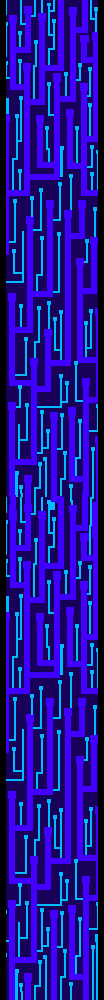
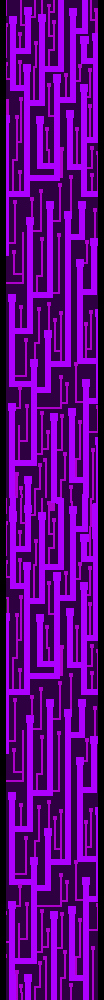
ATUALIZAÇÕES

diff --git a/script.js b/script.js
@@ -16,7 +16,7 @@ document.addEventListener('DOMContentLoaded', function (){
     });
     botaoSoftware.addEventListener('click', function() {
         document.body.style.backgroundColor = 'rgba(32, 16, 126, 1)';
-        document.body.style.backgroundImage = 'url("side-bar-roxa.png"), url("side-bar-roxa.png")';
+        document.body.style.backgroundImage = 'url("side-bar-azul.png"), url("side-bar-azul.png")';
         document.querySelectorAll('.botao').forEach(el => el.style.color = 'white');
         document.querySelectorAll('.botao').forEach(el => el.style.backgroundColor = 'rgba(0, 10, 70, 1)');
         limpador();
@@ -42,13 +42,13 @@ document.addEventListener('DOMContentLoaded', function (){
         document.querySelector('.footer').style.backgroundColor = 'rgb(223 0 12)';
     });
     botaoCreditos.addEventListener('click', function() { 
-        document.body.style.backgroundColor = 'rgba(12, 64, 123, 1)';
-        document.body.style.backgroundImage = 'url("side-bar-azul.png"), url("side-bar-azul.png")';
+        document.body.style.backgroundColor = 'rgb(46 0 66)';
+        document.body.style.backgroundImage = 'url("side-bar-roxa.png"), url("side-bar-roxa.png")';
         document.querySelectorAll('.botao').forEach(el => el.style.color = 'white');
-        document.querySelectorAll('.botao').forEach(el => el.style.backgroundColor = 'rgba(39, 48, 201, 1)');
+        document.querySelectorAll('.botao').forEach(el => el.style.backgroundColor = 'rgba(18, 1, 27, 1)');
         limpador();
         document.querySelector('.conteudo-creditos').style.display = 'flex';
-        document.querySelector('.footer').style.backgroundColor = '#0077ff';
+        document.querySelector('.footer').style.backgroundColor = 'rgb(178 0 255)';
     });
     const accordion = document.querySelectorAll('.accordion-botao');
     accordion.forEach(header => {

diff --git a/index.html b/index.html
@@ -548,7 +548,7 @@
     </div>
   </main>
   <footer class="footer">
-    <h1 id="footer-texto">© 2025 COMPUTERPÉDIA, by Underworld. (Nem) Todos os direitos reservados.</h1>
+    <h1 id="footer-texto">© 2025 COMPUTERPÉDIA, by Underworld. Todos os direitos reservados.</h1>
   </footer>
 </body>
 </html>
